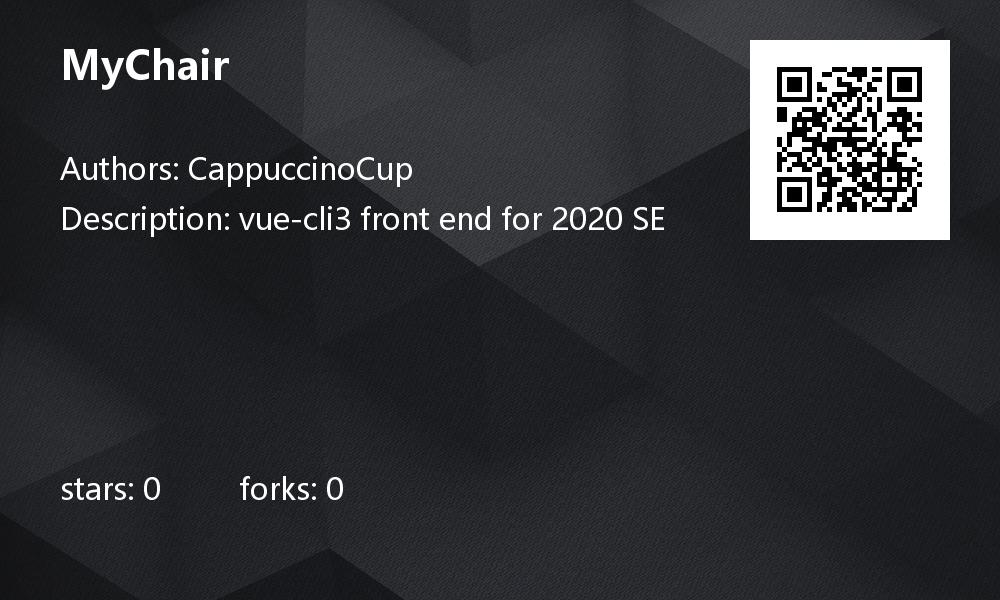
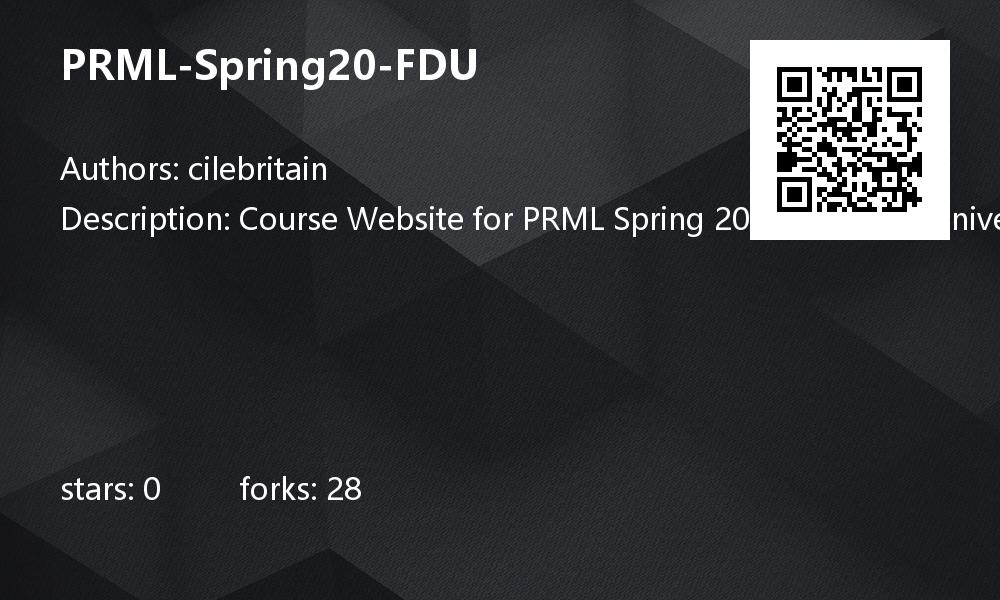
successfully connect spider and image generator

diff --git a/src/service/SpiderService.java b/src/service/SpiderService.java
@@ -2,23 +2,41 @@ package service;
 
 import org.jsoup.Jsoup;
 import org.jsoup.nodes.Document;
+import org.jsoup.nodes.Element;
+import org.jsoup.select.Elements;
+
+import javax.imageio.ImageIO;
+import java.awt.image.BufferedImage;
+import java.io.File;
 
 public class SpiderService {
-    public static void getEmbed(String url){
+    public static BufferedImage getEmbed(String url) {
         try {
             Document document = Jsoup.connect(url).get();
             // github url
             if (url.contains("github.com")) {
                 String author = document.select("[itemprop=author]").text();
                 String title = document.select("[itemprop=name]").text();
+                String desc = document.getElementsMatchingOwnText("About").get(0).nextElementSibling().text();
+                String stars = document.getElementsByAttributeValueContaining("aria-label", "starred this repository").text();
+                String forks = document.getElementsByAttributeValueContaining("aria-label", "forked this repository").text();
                 System.out.println(author);
                 System.out.println(title);
+                System.out.println(desc);
+                System.out.println(stars);
+                System.out.println(forks);
+                BufferedImage image = PosterService.generateGithubPoster(url, title, author, desc, stars, forks);
+                String outputPath = "./public/img/poster.jpg";
+                ImageIO.write(image, "jpg", new File(outputPath));
+                return image;
             }
-        } catch (Exception e){
+        } catch (Exception e) {
             System.out.println("get html content error");
         }
+        return null;
     }
-//    public static void main(String[] args) {
-//        getEmbed("https://github.com/jhy/jsoup");
-//    }
+
+    public static void main(String[] args) {
+        getEmbed("https://github.com/cilebritain/PRML-Spring20-FDU");
+    }
 }
